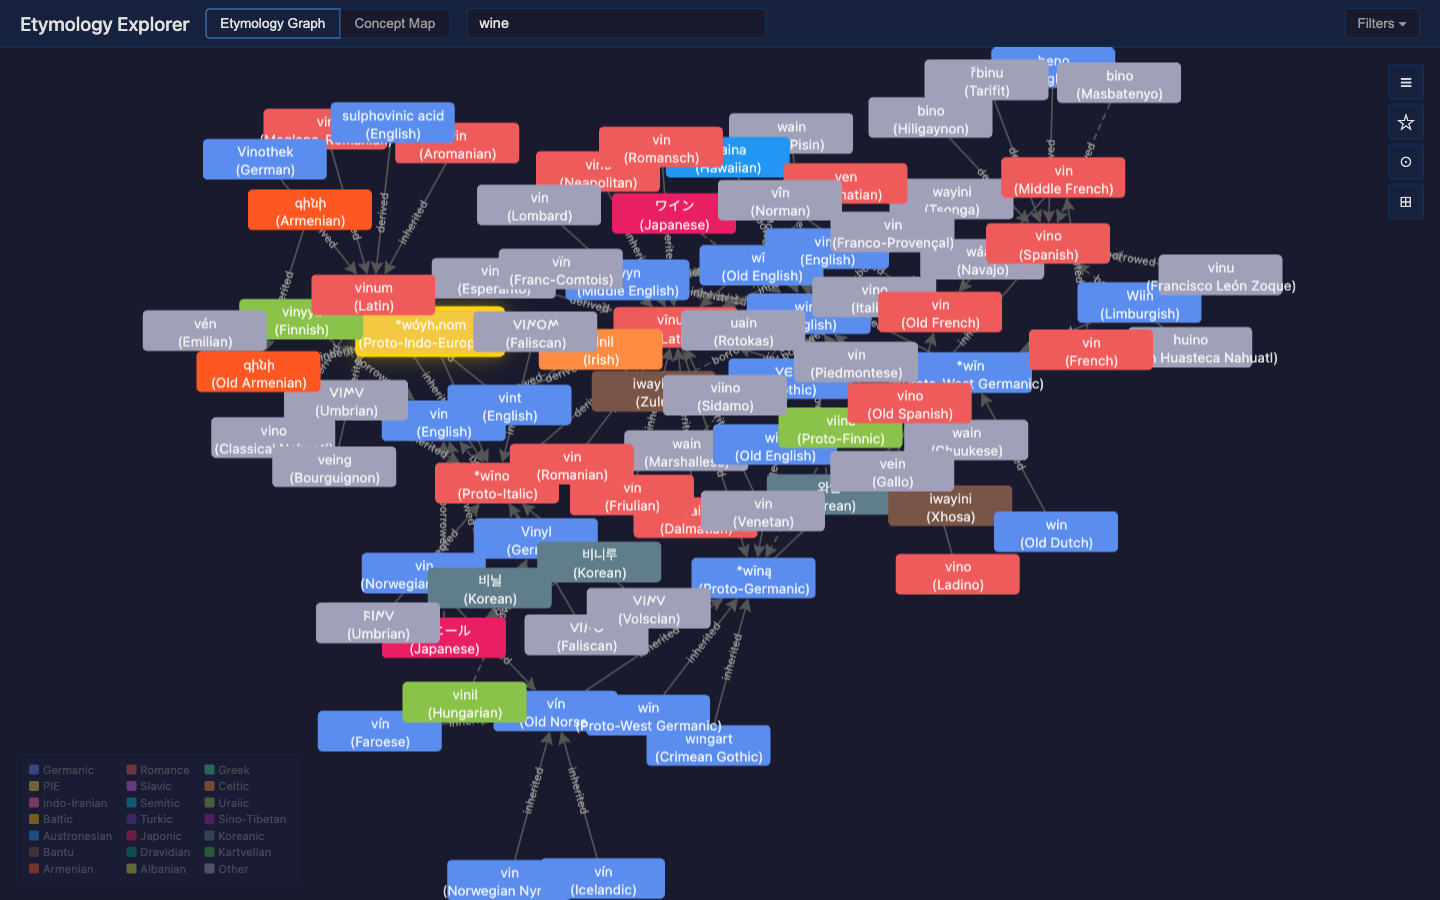
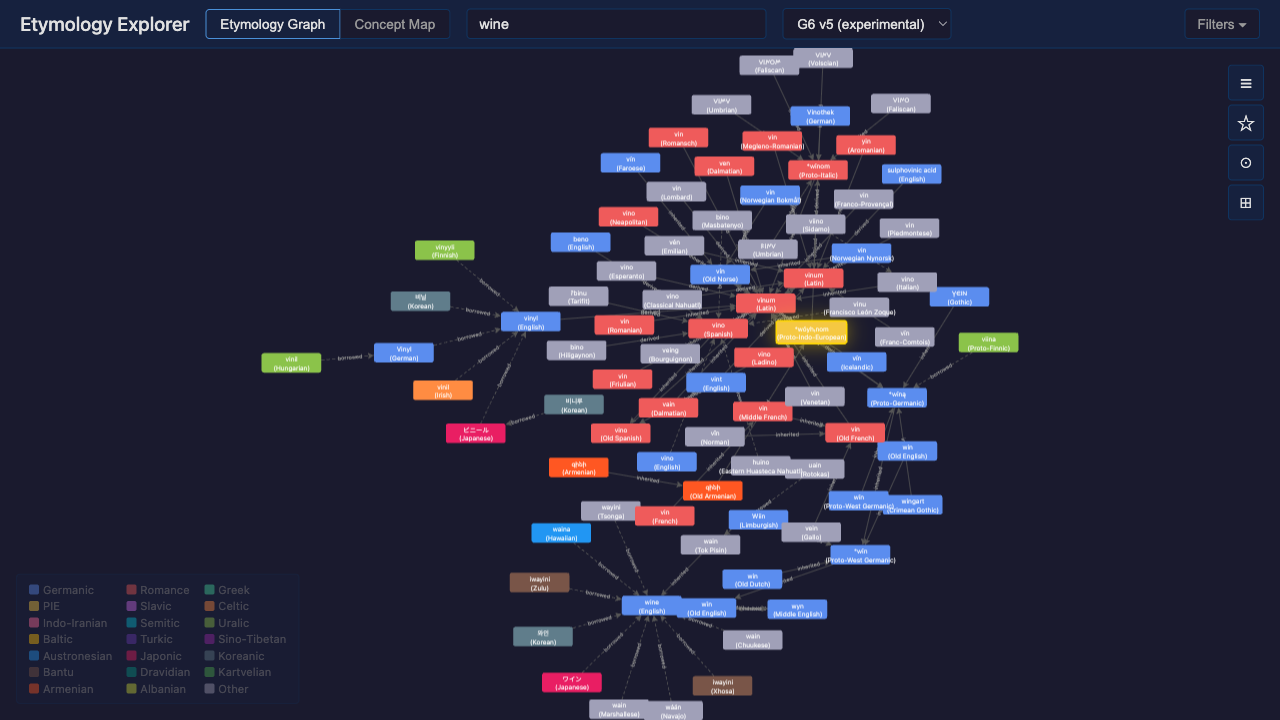
SPC-00006: Fix G6 physics animation, force spacing, trackpad interaction
- Enable animated d3-force layout with 300 iterations for smooth settling
- Increase force parameters (charge -500, link distance 200) for readable spacing
- Replace drag-element with drag-element-force for real-time recalculation
- Add pinch-to-zoom via ctrlKey wheel events (matches vis.js trackpad behavior)
- Replace zoom-canvas with scroll-canvas for two-finger pan
- Update README, FEATURES.md, and CLAUDE.md status

diff --git a/frontend/public/js/g6-adapter.js b/frontend/public/js/g6-adapter.js
@@ -153,29 +153,43 @@ function createG6Adapter(container) {
 
             layout: {
                 type: "d3-force",
+                animate: true,
+                iterations: 300,
                 preventOverlap: true,
-                nodeSize: 40,
+                nodeSize: 50,
                 link: {
-                    distance: 150,
+                    distance: 200,
                 },
                 charge: {
-                    strength: -300,
-                    distanceMax: 600,
+                    strength: -500,
+                    distanceMax: 800,
                 },
                 collide: {
-                    radius: 30,
-                    strength: 0.7,
+                    radius: 50,
+                    strength: 0.8,
                 },
             },
 
             behaviors: [
                 "drag-canvas",
-                "zoom-canvas",
-                "drag-element",
+                "drag-element-force",
+                "scroll-canvas",
             ],
         });
 
         await graph.render();
+
+        // Pinch-to-zoom on macOS trackpads.
+        // "scroll-canvas" handles two-finger pan (ctrlKey=false wheel events).
+        // Pinch gestures fire wheel events with ctrlKey=true — intercept those for zoom.
+        container.addEventListener("wheel", function (e) {
+            if (!e.ctrlKey) return;
+            e.preventDefault();
+            var zoom = graph.getZoom();
+            var factor = 1 - e.deltaY * 0.01;
+            var newZoom = Math.max(0.1, Math.min(5, zoom * factor));
+            graph.zoomTo(newZoom, { duration: 0 });
+        }, { passive: false });
 
         // Click handler: show detail panel on node click
         graph.on("node:click", function (event) {

diff --git a/specs/00006-g6-renderer-fixes/spec.md b/specs/00006-g6-renderer-fixes/spec.md
@@ -1,0 +1,61 @@
+# SPC-00006: G6 Renderer Fixes (Physics, Spacing, Trackpad)
+
+| Field | Value |
+|---|---|
+| **Status** | implemented |
+| **Created** | 2026-02-11 |
+| **Modifies** | SPC-00005 (fixes G6 renderer UX: physics animation, force spacing, trackpad interaction) |
+| **Modified-by** | — |
+
+## Summary
+
+Three targeted fixes to the G6 v5 experimental renderer introduced in SPC-00005, all scoped to `frontend/public/js/g6-adapter.js`.
+
+## Fix 1: Animated Force Simulation
+
+**Problem:** The `d3-force` layout computed all node positions in one pass and rendered the final state instantly. The graph felt static compared to vis.js's continuous physics loop.
+
+**Solution:**
+- Add `animate: true` to the layout config so G6 renders intermediate positions each tick
+- Add `iterations: 300` for enough simulation steps to settle
+- Replace `"drag-element"` behavior with `"drag-element-force"` so dragging a node triggers real-time force recalculation (nearby nodes push away)
+
+## Fix 2: Tuned Force Parameters
+
+**Problem:** Default force parameters produced a dense cluster with overlapping labels.
+
+**Solution:** Increase repulsion strength and spacing distances:
+
+| Parameter | Before | After |
+|---|---|---|
+| `nodeSize` | 40 | 50 |
+| `link.distance` | 150 | 200 |
+| `charge.strength` | -300 | -500 |
+| `charge.distanceMax` | 600 | 800 |
+| `collide.radius` | 30 | 50 |
+| `collide.strength` | 0.7 | 0.8 |
+
+## Fix 3: macOS Trackpad Pan + Pinch Zoom
+
+**Problem:** G6's `zoom-canvas` behavior mapped all wheel events to zoom. On macOS trackpads, two-finger scroll (which fires wheel events with `ctrlKey: false`) should pan, and pinch gestures (wheel events with `ctrlKey: true`) should zoom. Both were triggering zoom.
+
+**Solution:**
+- Replace `"zoom-canvas"` with `"scroll-canvas"` in the behaviors array — this makes two-finger scroll pan the canvas in all directions
+- Add a custom `wheel` event listener on the container that intercepts only `ctrlKey: true` events (pinch gestures) and applies zoom via `graph.getZoom()` / `graph.zoomTo()`
+- This mirrors the trackpad handling pattern used in the vis.js renderer (`graph.js:686-704`)
+
+## Files Changed
+
+| File | Changes |
+|---|---|
+| `frontend/public/js/g6-adapter.js` | Layout config (animate, tuned forces), behaviors (drag-element-force, scroll-canvas), custom pinch-to-zoom handler |
+
+## Verification
+
+1. Load `/?renderer=g6&word=wine` — nodes animate into position over ~2 seconds
+2. Graph is well-spread with readable labels (not a dense cluster)
+3. Drag a node — nearby nodes push away in real-time
+4. Two-finger scroll pans in all directions
+5. Pinch gesture zooms in/out smoothly
+6. Load `/?renderer=g6&word=water` — large graph settles and remains readable
+7. vis.js renderer unaffected by changes

diff --git a/specs/00006-g6-renderer-fixes/decision-log.md b/specs/00006-g6-renderer-fixes/decision-log.md
@@ -1,0 +1,37 @@
+# Decision Log — SPC-00006: G6 Renderer Fixes
+
+## Starting Question
+
+After implementing the G6 v5 experimental renderer (SPC-00005), three usability issues were identified during manual testing: no physics animation, crowded nodes, and broken trackpad interaction on macOS. How should these be fixed?
+
+## Alternatives Considered
+
+### Fix 1: Physics Animation
+
+- **Option A: `animate: true` on d3-force layout** — G6's built-in support for rendering intermediate layout ticks. Minimal code change.
+- **Option B: Custom tick callback with manual position updates** — More control but significantly more complex and fragile.
+- **Decision:** Option A. The `animate` flag is purpose-built for this and requires a single line.
+
+### Fix 2: Force Spacing
+
+- **Option A: Increase force parameters** — Stronger charge repulsion (-500 vs -300), larger link distance (200 vs 150), bigger collision radius (50 vs 30).
+- **Option B: Switch to a different layout algorithm** — e.g., `dagre` for hierarchical layouts.
+- **Decision:** Option A. The d3-force layout is the right choice for etymology graphs (similar to vis.js forceAtlas2Based). Just needed parameter tuning. Values were estimated then verified visually with "wine" and "water" graphs.
+
+### Fix 3: Trackpad Interaction
+
+- **Option A: Replace `zoom-canvas` with `scroll-canvas` + custom pinch handler** — `scroll-canvas` handles two-finger pan natively. A small custom `wheel` listener with `ctrlKey` check handles pinch-to-zoom. Mirrors the proven pattern in `graph.js`.
+- **Option B: Configure `zoom-canvas` to ignore non-pinch events** — G6's zoom-canvas behavior doesn't expose this level of control in v5.
+- **Option C: Implement a full custom behavior plugin** — Overkill for this use case.
+- **Decision:** Option A. Clean separation of concerns: G6 handles pan, custom code handles pinch. Pattern already proven in vis.js renderer.
+
+## Decision & Rationale
+
+All three fixes were bundled into a single spec because they're all scoped to one file (`g6-adapter.js`) and address the same root issue: "G6 renderer UX doesn't match vis.js quality." Each fix is minimal and targeted, avoiding over-engineering.
+
+The `drag-element-force` behavior was chosen over `drag-element` to complement the animated physics — when a user drags a node, the force simulation should respond in real-time, pushing nearby nodes away. This creates a cohesive physics-based interaction model.
+
+## Participants
+
+- **Human** — identified the three issues during manual testing
+- **Claude (Development Agent)** — investigated G6 v5 API, proposed solutions, implemented fixes

diff --git a/README.md b/README.md
@@ -42,10 +42,10 @@ The core view. Type any word into the search bar, and you'll see a tree of that 
 
 #### G6 Renderer (experimental)
 
-Switch to the G6 v5 renderer via **Filters > Renderer** for a WebGL-accelerated force-directed view. Useful for exploring larger etymology trees where vis.js starts to slow down.
+Switch to the G6 v5 renderer via **Filters > Renderer** for a WebGL-accelerated force-directed view. Nodes animate into position with a physics simulation that settles over a couple of seconds — drag any node and watch the others react in real-time. Trackpad gestures work the same as vis.js: two-finger scroll to pan, pinch to zoom.
 
 <p align="center">
-  <img src="docs/screenshots/g6-renderer.png" alt="G6 v5 renderer showing the etymology of 'wine' with force-directed layout — nodes colored by language family" width="800">
+  <img src="docs/screenshots/g6-renderer.png" alt="G6 v5 renderer showing the etymology of 'wine' with animated force-directed layout — nodes colored by language family, well-spaced with readable labels" width="800">
 </p>
 
 ### Concept Map

diff --git a/docs/FEATURES.md b/docs/FEATURES.md
@@ -449,8 +449,12 @@ app.js → graph-renderer.js (factory) → vis-adapter.js | g6-adapter.js       
 }
 ```
 
-**G6 features (Phase 1):**
+**G6 features (Phase 1 + SPC-00006 fixes):**
 - Force-directed layout (`d3-force` with charge repulsion, collision prevention)
+- Animated physics simulation — nodes settle over ~2 seconds (not instant placement)
+- Tuned force parameters for well-spread graphs with readable labels
+- Drag-element-force: dragging a node triggers real-time force recalculation
+- macOS trackpad: two-finger scroll pans, pinch gesture zooms (matches vis.js behavior)
 - Nodes colored by language family (same 20-family palette as vis.js)
 - Root node highlighted with gold border and glow shadow
 - Edge styling: dashed for borrowed/cognate/mention, arrows for direction

diff --git a/CLAUDE.md b/CLAUDE.md
@@ -160,7 +160,7 @@ claude mcp get mongodb  # Shows details for specific server
 ## Current Status
 
 **Phase**: MVP complete + Phase 2 in progress
-**Last completed**: Shareable links with History API URL routing (SPC-00003)
+**Last completed**: G6 renderer fixes — physics animation, force spacing, trackpad interaction (SPC-00006)
 **Next task**: Remaining Phase 2 nice-to-haves (see docs/FEATURES.md for status)
 
 **Recent**: Implemented shareable links (SPC-00003) with:
